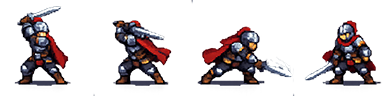
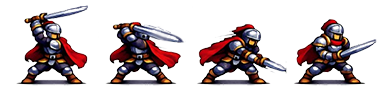
Add monster sprites and fix attack animations

diff --git a/js/game.js b/js/game.js
@@ -61,7 +61,11 @@ document.addEventListener("DOMContentLoaded", () => {
             hpGrowth: 10,
             minAttack: 18,
             maxAttack: 28,
-            chance: 0.6
+            chance: 0.6,
+            spriteIdle: "assets/monsters/goblin/idle.png",
+            spriteAttack: "assets/monsters/goblin/attack.png",
+            width: 64,
+            height: 64
         },
         wolf: {
             name: "🐺 Волк",
@@ -69,7 +73,11 @@ document.addEventListener("DOMContentLoaded", () => {
             hpGrowth: 15,
             minAttack: 28,
             maxAttack: 42,
-            chance: 0.4
+            chance: 0.4,
+            spriteIdle: "assets/monsters/wolf/idle.png",
+            spriteAttack: "assets/monsters/wolf/attack.png",
+            width: 96,
+            height: 48
         }
     };
 
@@ -100,29 +108,24 @@ document.addEventListener("DOMContentLoaded", () => {
         return Math.floor(Math.random() * (max - min + 1)) + min;
     }
 
-    /**
-     * ⭐ ЖЁСТКО ОГРАНИЧЕННЫЙ СКРОЛЛ ЛОГА
-     * ЛОГ НИКОГДА НЕ ДОЕЗЖАЕТ ДО НИЗА
-     * последняя строка всегда полностью видна
-     */
+    // ⭐ лог со стопом перед нижней границей
     function writeLog(text) {
-    const prevScrollTop = log.scrollTop;
-    const prevScrollHeight = log.scrollHeight;
+        const prevScrollTop = log.scrollTop;
+        const prevScrollHeight = log.scrollHeight;
 
-    log.innerHTML += text + "<br>";
+        log.innerHTML += text + "<br>";
 
-    const lineHeight = 18; // под твой font-size
-    const maxAllowedScroll =
-        log.scrollHeight - log.clientHeight - lineHeight;
+        const lineHeight = 18;
+        const maxAllowedScroll =
+            log.scrollHeight - log.clientHeight - lineHeight;
 
-    // если мы были выше "безопасной зоны" — скроллим
-    if (prevScrollTop < maxAllowedScroll) {
-        log.scrollTop = prevScrollTop + (log.scrollHeight - prevScrollHeight);
-    } else {
-        // иначе ЖЁСТКО держим на безопасной границе
-        log.scrollTop = maxAllowedScroll;
+        if (prevScrollTop < maxAllowedScroll) {
+            log.scrollTop =
+                prevScrollTop + (log.scrollHeight - prevScrollHeight);
+        } else {
+            log.scrollTop = maxAllowedScroll;
+        }
     }
-}
 
     function getRandomMonsterType() {
         return Math.random() < MONSTERS.goblin.chance ? "goblin" : "wolf";
@@ -154,8 +157,8 @@ document.addEventListener("DOMContentLoaded", () => {
             heroMinDmg = data.minDamage;
             heroMaxDmg = data.maxDamage;
 
-            hero.style.backgroundImage = `url(${data.spriteIdle})`;
             hero.className = "hero idle";
+            hero.style.backgroundImage = `url(${data.spriteIdle})`;
 
             classSelect.style.display = "none";
             game.classList.remove("hidden");
@@ -170,12 +173,14 @@ document.addEventListener("DOMContentLoaded", () => {
     ================================ */
     fightBtn.addEventListener("click", () => {
         if (fighting || heroHp <= 0) return;
-
         fighting = true;
         fightBtn.disabled = true;
         spawnMonster();
     });
 
+    /* ================================
+       SPAWN MONSTER
+    ================================ */
     function spawnMonster() {
         monsterCount++;
 
@@ -187,13 +192,20 @@ document.addEventListener("DOMContentLoaded", () => {
             random(0, data.hpGrowth) +
             monsterCount * 3;
 
-        monster.className = `monster ${type}`;
+        monster.className = "monster";
+        monster.style.width = data.width + "px";
+        monster.style.height = data.height + "px";
+        monster.style.backgroundImage = `url(${data.spriteIdle})`;
+        monster.style.backgroundPosition = "0 0";
         monster.classList.remove("hidden");
 
         writeLog(`${data.name} №${monsterCount} выходит из леса!`);
         battleTurn(type, data);
     }
 
+    /* ================================
+       BATTLE LOOP
+    ================================ */
     function battleTurn(type, data) {
         if (heroHp <= 0) {
             die();
@@ -211,6 +223,10 @@ document.addEventListener("DOMContentLoaded", () => {
             return;
         }
 
+        /* HERO ATTACK */
+        hero.classList.remove("attack");
+        hero.style.backgroundPosition = "0 0";
+        void hero.offsetWidth; // перезапуск анимации
         hero.classList.add("attack");
         hero.style.backgroundImage = `url(${heroClass.spriteAttack})`;
 
@@ -227,27 +243,33 @@ document.addEventListener("DOMContentLoaded", () => {
                 return;
             }
 
+            /* MONSTER ATTACK */
+            monster.classList.remove("attack");
+            monster.style.backgroundPosition = "0 0";
+            void monster.offsetWidth;
             monster.classList.add("attack");
-            const monsterDmg = random(
-                data.minAttack,
-                data.maxAttack
-            );
+            monster.style.backgroundImage = `url(${data.spriteAttack})`;
+     
+            const monsterDmg = random(data.minAttack, data.maxAttack);
             heroHp -= monsterDmg;
             writeLog(`${data.name} ударил (-${monsterDmg})`);
 
             setTimeout(() => {
                 monster.classList.remove("attack");
+                monster.style.backgroundImage = `url(${data.spriteIdle})`;
                 setTimeout(() => battleTurn(type, data), 160);
-            }, 120);
+            }, 800);
 
-        }, 500);
+        }, 800);
     }
 
+    /* ================================
+       DEATH
+    ================================ */
     function die() {
         monster.classList.add("hidden");
 
         const score = monsterCount - 1;
-
         writeLog("💀 Герой погиб");
         writeLog(`🏁 Побеждено монстров: ${score}`);
 
@@ -263,6 +285,9 @@ document.addEventListener("DOMContentLoaded", () => {
         fighting = false;
     }
 
+    /* ================================
+       REVIVE
+    ================================ */
     reviveBtn.addEventListener("click", () => {
         heroHp = heroMaxHp;
         monsterCount = 0;

diff --git a/css/style.css b/css/style.css
@@ -63,27 +63,21 @@ body {
 }
 
 /* ================================
-   CLASS PREVIEW (STATS BOARD)
+   CLASS PREVIEW
 ================================ */
 .class-preview {
     padding: 20px 32px;
     min-width: 260px;
-
-    background:
-        linear-gradient(
-            180deg,
-            rgba(40, 70, 90, 0.95),
-            rgba(20, 40, 55, 0.95)
-        );
-
+    background: linear-gradient(
+        180deg,
+        rgba(40, 70, 90, 0.95),
+        rgba(20, 40, 55, 0.95)
+    );
     border-radius: 16px;
-
     box-shadow:
-        0 10px 30px rgba(0, 0, 0, 0.6),
-        inset 0 0 0 2px rgba(160, 210, 255, 0.25);
-
+        0 10px 30px rgba(0,0,0,0.6),
+        inset 0 0 0 2px rgba(160,210,255,0.25);
     text-align: center;
-    animation: fadeUp 0.25s ease;
 }
 
 .class-preview h3 {
@@ -96,18 +90,6 @@ body {
     font-size: 16px;
     margin-bottom: 6px;
     color: #e0f2ff;
-}
-
-.class-preview .hint {
-    margin-top: 12px;
-    font-size: 14px;
-    opacity: 0.8;
-    color: #b6ddff;
-}
-
-@keyframes fadeUp {
-    from { opacity: 0; transform: translateY(10px); }
-    to   { opacity: 1; transform: translateY(0); }
 }
 
 /* ================================
@@ -139,22 +121,17 @@ body {
     left: 50%;
     transform: translateX(-50%);
     z-index: 20;
-
     font-size: 40px;
     letter-spacing: 4px;
     font-weight: 900;
     color: #8fd3ff;
-
     text-shadow:
         0 0 6px rgba(80,160,255,0.5),
         0 0 14px rgba(40,120,220,0.4);
-
-    pointer-events: none;
-    user-select: none;
 }
 
 /* ================================
-   HERO (SPRITE)
+   HERO
 ================================ */
 .hero {
     position: absolute;
@@ -169,93 +146,41 @@ body {
 
     background-repeat: no-repeat;
     background-size: auto;
-
     image-rendering: pixelated;
 }
 
 .hero.attack {
-    animation: attackAnim 0.5s steps(4) forwards;
+    animation: heroAttack 0.8s steps(4) forwards;
 }
 
-@keyframes attackAnim {
+@keyframes heroAttack {
     from { background-position: 0 0; }
     to   { background-position: -384px 0; }
 }
 
 /* ================================
-   MONSTERS
+   MONSTER
 ================================ */
 .monster {
     position: absolute;
     right: 80px;
-    bottom: 40px;
-    z-index: 2;
-}
+    bottom: 25px;
 
-/* Goblin */
-.monster.goblin {
-    width: 60px;
-    height: 100px;
-    display: flex;
-    flex-direction: column;
-    align-items: center;
-}
+    transform: scale(2);
+    transform-origin: bottom right;
 
-.monster.goblin::before {
-    content: "";
-    width: 40px;
-    height: 40px;
-    background: #4caf50;
-    border-radius: 50%;
-    margin-bottom: 4px;
-}
-
-.monster.goblin::after {
-    content: "";
-    width: 45px;
-    height: 55px;
-    background: #2e7d32;
-    border-radius: 10px;
-}
-
-/* Wolf */
-.monster.wolf {
-    width: 110px;
-    height: 50px;
-    background: #757575;
-    border-radius: 40px;
-}
-
-.monster.wolf::before {
-    content: "";
-    width: 30px;
-    height: 30px;
-    background: #616161;
-    border-radius: 50%;
-    position: absolute;
-    left: -15px;
-    top: 10px;
-}
-
-.monster.wolf::after {
-    content: "";
-    width: 25px;
-    height: 10px;
-    background: #9e9e9e;
-    position: absolute;
-    right: -15px;
-    top: 20px;
-    border-radius: 10px;
+    background-repeat: no-repeat;
+    background-size: auto;
+    image-rendering: pixelated;
 }
 
 .monster.attack {
-    animation: monsterHit 0.12s;
+    animation: monsterAttack 0.8s steps(4) forwards;
 }
 
-@keyframes monsterHit {
-    0% { transform: translateX(0); }
-    50% { transform: translateX(-14px); }
-    100% { transform: translateX(0); }
+@keyframes monsterAttack {
+    from { background-position: 0 0; }
+    to   { background-position: -256px 0; }
 }
 
 /* ================================
@@ -298,10 +223,8 @@ body {
     padding: 12px 14px;
     height: 140px;
     overflow-y: auto;
-
     font-size: 14px;
     line-height: 1.4;
-
     margin: 0 12px 22px;
     border-radius: 6px;
 }
@@ -361,4 +284,5 @@ body {
         font-size: 28px;
         top: 8px;
     }
+    
 }
